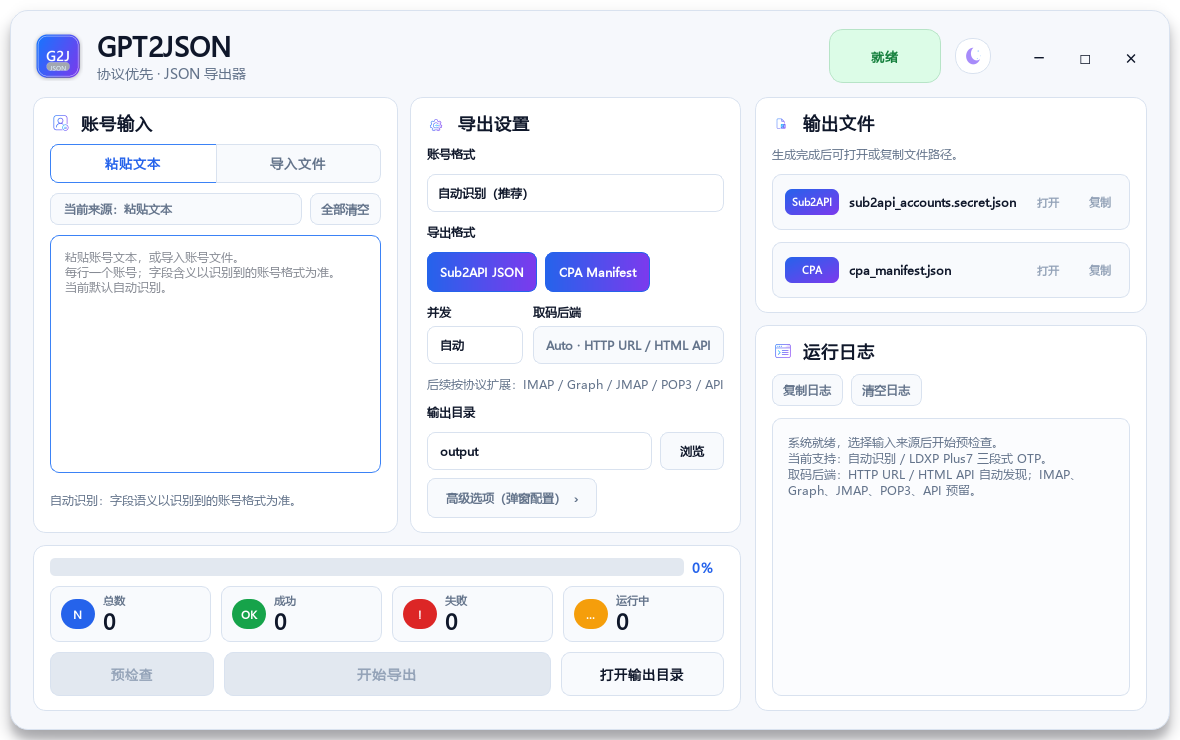
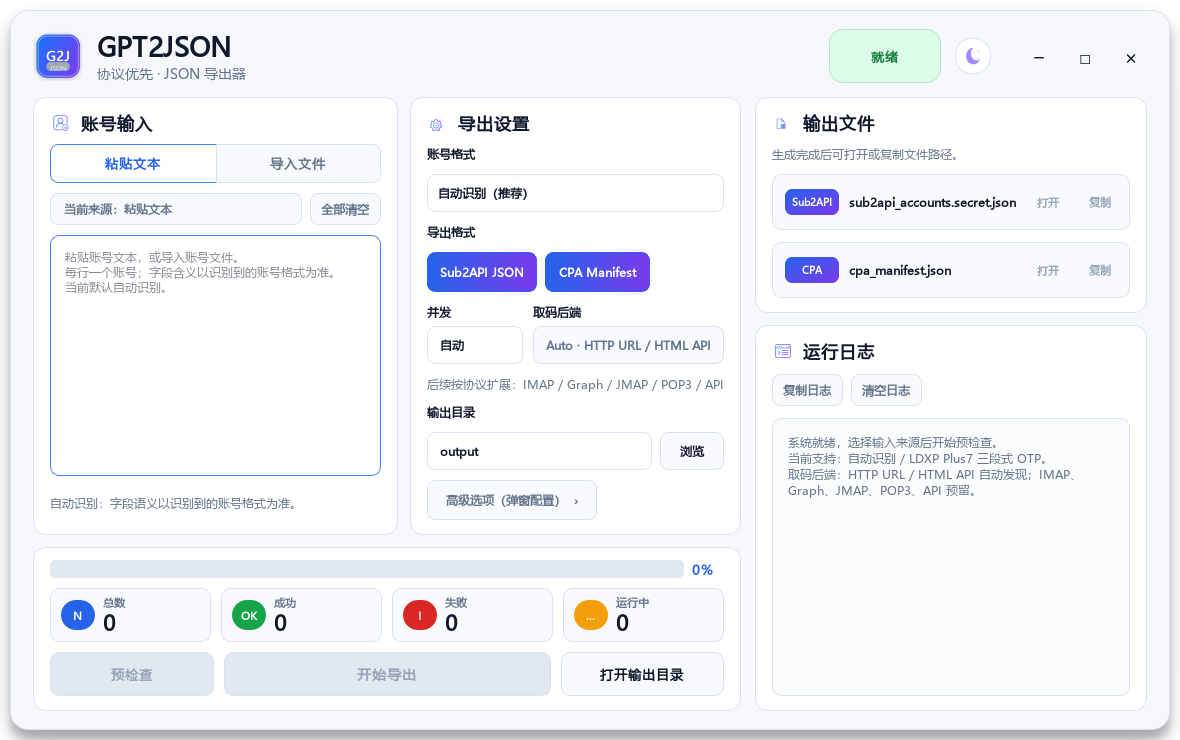
Make GUI responsive to window scaling

diff --git a/gpt2json/gui.py b/gpt2json/gui.py
@@ -25,6 +25,8 @@ from PySide6.QtWidgets import (
     QPlainTextEdit,
     QProgressBar,
     QPushButton,
+    QSizeGrip,
+    QSizePolicy,
     QSpinBox,
     QStackedWidget,
     QToolButton,
@@ -317,9 +319,8 @@ class MainWindow(QMainWindow):
     def __init__(self) -> None:
         super().__init__()
         self.setWindowTitle(APP_NAME)
-        self.setMinimumSize(1120, 720)
+        self.setMinimumSize(980, 640)
         self.resize(1180, 740)
-        self.setFixedSize(1180, 740)
         self.setWindowFlags(Qt.WindowType.FramelessWindowHint | Qt.WindowType.Window)
         self.setAttribute(Qt.WidgetAttribute.WA_TranslucentBackground, True)
         if ICON_PATH.exists():
@@ -378,6 +379,9 @@ class MainWindow(QMainWindow):
         shell_layout.setSpacing(14)
         shell_layout.addLayout(self._build_header())
         shell_layout.addLayout(self._build_content(), 1)
+        self.size_grip = QSizeGrip(self)
+        self.size_grip.setObjectName("SizeGrip")
+        self.size_grip.raise_()
 
     def _build_header(self) -> QHBoxLayout:
         header = QHBoxLayout()
@@ -437,8 +441,8 @@ class MainWindow(QMainWindow):
         top_row.setSpacing(12)
         top_row.addWidget(self._build_input_card(), 62)
         top_row.addWidget(self._build_settings_card(), 38)
-        left_layout.addLayout(top_row, 70)
-        left_layout.addWidget(self._build_run_card(), 30)
+        left_layout.addLayout(top_row, 1)
+        left_layout.addWidget(self._build_run_card(), 0)
 
         content.addWidget(left, 70)
         content.addWidget(self._build_right_column(), 30)
@@ -483,9 +487,11 @@ class MainWindow(QMainWindow):
 
         self.input_stack = QStackedWidget()
         self.input_stack.setObjectName("InputStack")
-        self.input_stack.setFixedHeight(238)
+        self.input_stack.setMinimumHeight(210)
+        self.input_stack.setSizePolicy(QSizePolicy.Policy.Expanding, QSizePolicy.Policy.Expanding)
         self.paste_edit = QPlainTextEdit()
         self.paste_edit.setObjectName("PasteBox")
+        self.paste_edit.setSizePolicy(QSizePolicy.Policy.Expanding, QSizePolicy.Policy.Expanding)
         self.paste_edit.setPlaceholderText("自动识别账号格式\n当前支持：GPT邮箱----GPT密码----OTP取码源\n每行一个账号，以当前选中的输入来源为准。")
         self.paste_edit.textChanged.connect(self._on_paste_changed)
         self.input_stack.addWidget(self.paste_edit)
@@ -500,14 +506,13 @@ class MainWindow(QMainWindow):
         file_page_layout.addWidget(self.file_drop)
         file_page_layout.addStretch(1)
         self.input_stack.addWidget(file_page)
-        layout.addWidget(self.input_stack)
+        layout.addWidget(self.input_stack, 1)
 
         self.input_hint_label = QLabel()
         self.input_hint_label.setObjectName("HintText")
         self.input_hint_label.setWordWrap(True)
         self.input_hint_label.setMinimumHeight(34)
         layout.addWidget(self.input_hint_label)
-        layout.addStretch(1)
         return card
 
     def _build_settings_card(self) -> QFrame:
@@ -600,6 +605,8 @@ class MainWindow(QMainWindow):
 
     def _build_run_card(self) -> QFrame:
         card = self._card()
+        card.setMinimumHeight(164)
+        card.setMaximumHeight(176)
         layout = QVBoxLayout(card)
         layout.setContentsMargins(16, 12, 16, 14)
         layout.setSpacing(10)
@@ -650,6 +657,7 @@ class MainWindow(QMainWindow):
         layout.setSpacing(12)
 
         output_card = self._card()
+        output_card.setMaximumHeight(218)
         output_layout = QVBoxLayout(output_card)
         output_layout.setContentsMargins(16, 14, 16, 14)
         output_layout.setSpacing(12)
@@ -661,7 +669,7 @@ class MainWindow(QMainWindow):
         self.cpa_row = FileOutputRow("cpa_manifest.json", "CPA")
         output_layout.addWidget(self.sub2api_row)
         output_layout.addWidget(self.cpa_row)
-        layout.addWidget(output_card, 28)
+        layout.addWidget(output_card, 0)
 
         log_card = self._card()
         log_layout = QVBoxLayout(log_card)
@@ -685,7 +693,7 @@ class MainWindow(QMainWindow):
         self.log_edit.setReadOnly(True)
         self.log_edit.setPlainText(READY_LOG)
         log_layout.addWidget(self.log_edit, 1)
-        layout.addWidget(log_card, 72)
+        layout.addWidget(log_card, 1)
         return right
 
     def _card(self) -> QFrame:
@@ -742,6 +750,7 @@ class MainWindow(QMainWindow):
             f"""
             #Outer {{ background: transparent; }}
             #Shell {{ background:{p['shell']}; border:1px solid {p['border']}; border-radius:18px; }}
+            #SizeGrip {{ width:18px; height:18px; }}
             #LogoImage {{ min-width:50px; max-width:50px; min-height:50px; max-height:50px; border-radius:14px; }}
             #Title {{ color:{p['text']}; font-size:26px; font-weight:900; letter-spacing:-0.6px; }}
             #Subtitle {{ color:{p['muted']}; font-size:14px; font-weight:500; }}
@@ -1050,6 +1059,17 @@ class MainWindow(QMainWindow):
     def mouseReleaseEvent(self, event) -> None:  # type: ignore[override]
         self._drag_start = None
         super().mouseReleaseEvent(event)
+
+    def resizeEvent(self, event) -> None:  # type: ignore[override]
+        super().resizeEvent(event)
+        if hasattr(self, "size_grip"):
+            grip_size = self.size_grip.sizeHint()
+            margin = 8
+            self.size_grip.move(
+                self.width() - grip_size.width() - margin,
+                self.height() - grip_size.height() - margin,
+            )
+            self.size_grip.raise_()
 
     def mouseDoubleClickEvent(self, event) -> None:  # type: ignore[override]
         if event.button() == Qt.MouseButton.LeftButton and event.position().y() <= 88:

diff --git a/tests/test_gui.py b/tests/test_gui.py
@@ -48,8 +48,12 @@ def test_gui_enables_run_only_after_valid_preflight(tmp_path):
     window.sub2api_check.setChecked(True)
     window.cpa_check.setChecked(True)
     window.output_edit.setText("output")
-    assert window.size().width() == 1180
-    assert window.size().height() == 740
+    initial_stack_height = window.input_stack.height()
+    window.resize(1400, 900)
+    app.processEvents()
+    assert window.width() == 1400
+    assert window.height() == 900
+    assert window.input_stack.height() > initial_stack_height
     window.close()
     _clear_settings()
 

diff --git a/CHANGELOG.md b/CHANGELOG.md
@@ -12,6 +12,7 @@
 ### Changed
 
 - GUI preflight now reports skipped rows and separates selected output formats from already generated files.
+- GUI layout is resizable again: input/log areas expand with the window, while advanced options moved to a labeled dialog.
 
 ## [0.1.0] - 2026-04-27
 
